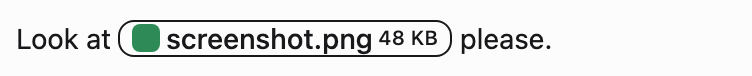
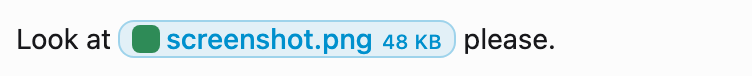
test(thread): match capture states and chip accent markup
Match design/reference-3814/plans/narrow.json at 30% scroll. Keep the scrubbed sandbox path shape so it wraps like the captured reply. T3 apps/web/src/components/ContextChip.tsx:8-20 and contextChipParts.tsx:168-176,318-323 at v0.1.4-nightly.20261028.3824 define the chip accent and attachment label nesting.

Changed region(s): [[0.1529, 0.2632, 0.734, 0.7632]]

diff --git a/Packages/CandyKit/Tests/FeaturesTests/ReferenceScreensFidelityTests.swift b/Packages/CandyKit/Tests/FeaturesTests/ReferenceScreensFidelityTests.swift
@@ -107,6 +107,7 @@ struct ReferenceScreensFidelityTests {
             let ref = ThreadFidelityTests.crop(full, x: full.pixelsWide - w, width: w, height: h)
             let projection = try #require(try ThreadFidelityTests.projection(ThreadPreview.markdownThread))
             let panel = ThreadPanelView(frame: .zero)
+            panel.appearance = NSAppearance(named: theme == "dark" ? .darkAqua : .aqua)
             panel.bottomInset = ThreadFidelityTests.composerInset
             panel.model.runShellCommand = { _ in } // a thread with a project: shell blocks show "Run in terminal"
             let layout = SidebarLayoutView(mainContent: panel, defaults: UserDefaults(suiteName: "candywrapper.fidelity.reference-screens")!,
@@ -115,7 +116,8 @@ struct ReferenceScreensFidelityTests {
             layout.layoutSubtreeIfNeeded()
             panel.setProjection(projection, projectTitle: "demo-repo", workspaceRoot: nil)
             panel.layoutSubtreeIfNeeded()
-            panel.timeline.scroll(toFraction: 1)
+            // reference-3814/plans/narrow.json records this viewport at 30%.
+            panel.timeline.scroll(toFraction: 0.3)
             let image = Snapshot.image(of: layout, size: window, scale: 2, dark: theme == "dark")
             try record("03n-narrow.\(theme)", ref, ThreadFidelityTests.crop(image, x: image.pixelsWide - w, width: w, height: h))
         }

diff --git a/scripts/gen-threadview-spec.py b/scripts/gen-threadview-spec.py
@@ -2,8 +2,7 @@
 card at its full, compact and essential densities (ThreadDetailsPanel.tsx:100-185, threadDetailsCardLayout.ts:7-14,
 GitActionsControl.tsx:1824, OpenInPicker.tsx:388-460) and the context chips inside a sent user message
 (MessagesTimeline.tsx:4243-4709, ThreadContextChip.tsx, chat/TerminalContextInlineChip.tsx, contextChipParts.tsx,
-ContextChip.tsx): a thread, a terminal excerpt, a file attachment, an image attachment tinted with its picture's
-average color, and a folder mention (MarkdownFileLink).
+ContextChip.tsx): a thread, a terminal excerpt, a file attachment, an image attachment with the theme's blue accent, and a folder mention (MarkdownFileLink).
 
 The card markup reuses gen-git-spec.py's helpers; the chip markup reuses gen-markdown-spec.py's chip and pierre
 helpers and its icon tint hook. The image chip's picture is a solid 4x4 PNG, so `averageImageColor` gives its
@@ -107,15 +106,19 @@ LABEL = '<span class="block min-w-0 self-baseline overflow-x-clip text-ellipsis 
 
 def context_chip(tag, kind, inner, style=""):
     base = BASE.replace("rounded-sm", "") if kind == "image" else BASE
-    cls = f"{base} [--context-chip-accent:{ACCENTS[kind]}] {COMPOUND}" + (" rounded-lg border border-(--context-chip-accent)/30 bg-(--context-chip-accent)/10 px-1.5" if kind == "image" else "") + (" no-underline" if tag == "a" else "")
+    cls = f"{base} {COMPOUND}" + (" rounded-lg border border-(--context-chip-accent)/30 bg-(--context-chip-accent)/10 px-1.5" if kind == "image" else "") + (" no-underline" if tag == "a" else "")
     attrs = ' href="#thread"' if tag == "a" else ' type="button"'
-    st = f' style="{style}"' if style else ""
+    st = f' style="--context-chip-accent:{ACCENTS[kind].replace(chr(95), chr(32))};{style}"'
     return f'<{tag}{attrs} class="{cls}" data-slot="context-chip"{st}>{inner}</{tag}>'
 
 def label(text, extra=""):
     return LABEL.format(text=html.escape(text), extra=extra)
 
 SIZE = '<span class="shrink-0 text-3xs text-current">{}</span>'
+
+def attachment_label(text, size):
+    return ('<span class="block min-w-0 self-baseline overflow-x-clip text-ellipsis whitespace-nowrap underline decoration-transparent decoration-1 underline-offset-[0.2em] flex items-baseline gap-[0.33em]" data-slot="context-chip-label">'
+            + '<span class="min-w-0 max-w-72 overflow-x-clip text-ellipsis whitespace-nowrap">' + html.escape(text) + '</span>' + SIZE.format(size) + '</span>')
 
 def png(rgb, side=4):
     raw = b"".join(b"\x00" + bytes(rgb) * side for _ in range(side))
@@ -130,10 +133,10 @@ CHIPS = {
                "[Fix login redirect](t3-context://v1/thread/thread_demo)"),
     "terminal": (context_chip("button", "terminal", lucide("terminal", "") + label("Terminal 1 lines 4-9")),
                  "[Terminal 1 lines 4-9](t3-context://v1/terminal/terminal_demo)"),
-    "file": (context_chip("button", "file", m["pierre"]("typescript") + label("report.ts", " max-w-72") + SIZE.format("12 KB")),
+    "file": (context_chip("button", "file", m["pierre"]("typescript") + attachment_label("report.ts", "12 KB")),
              "[report.ts](t3-context://v1/file/file_demo)"),
     "image": (context_chip("button", "image", f'<img alt="" class="size-[1em] shrink-0 rounded-sm object-cover" src="{png(IMAGE_RGB)}">'
-                           + label("screenshot.png", " max-w-72") + SIZE.format("48 KB"),
+                           + attachment_label("screenshot.png", "48 KB"),
                            style=""),
               "![screenshot.png](t3-context://v1/image/image_demo)"),
     "folder": (m["chip"]("/tmp/demo-repo", m["FOLDER"], "demo-repo"), "[demo-repo](/tmp/demo-repo)"),
